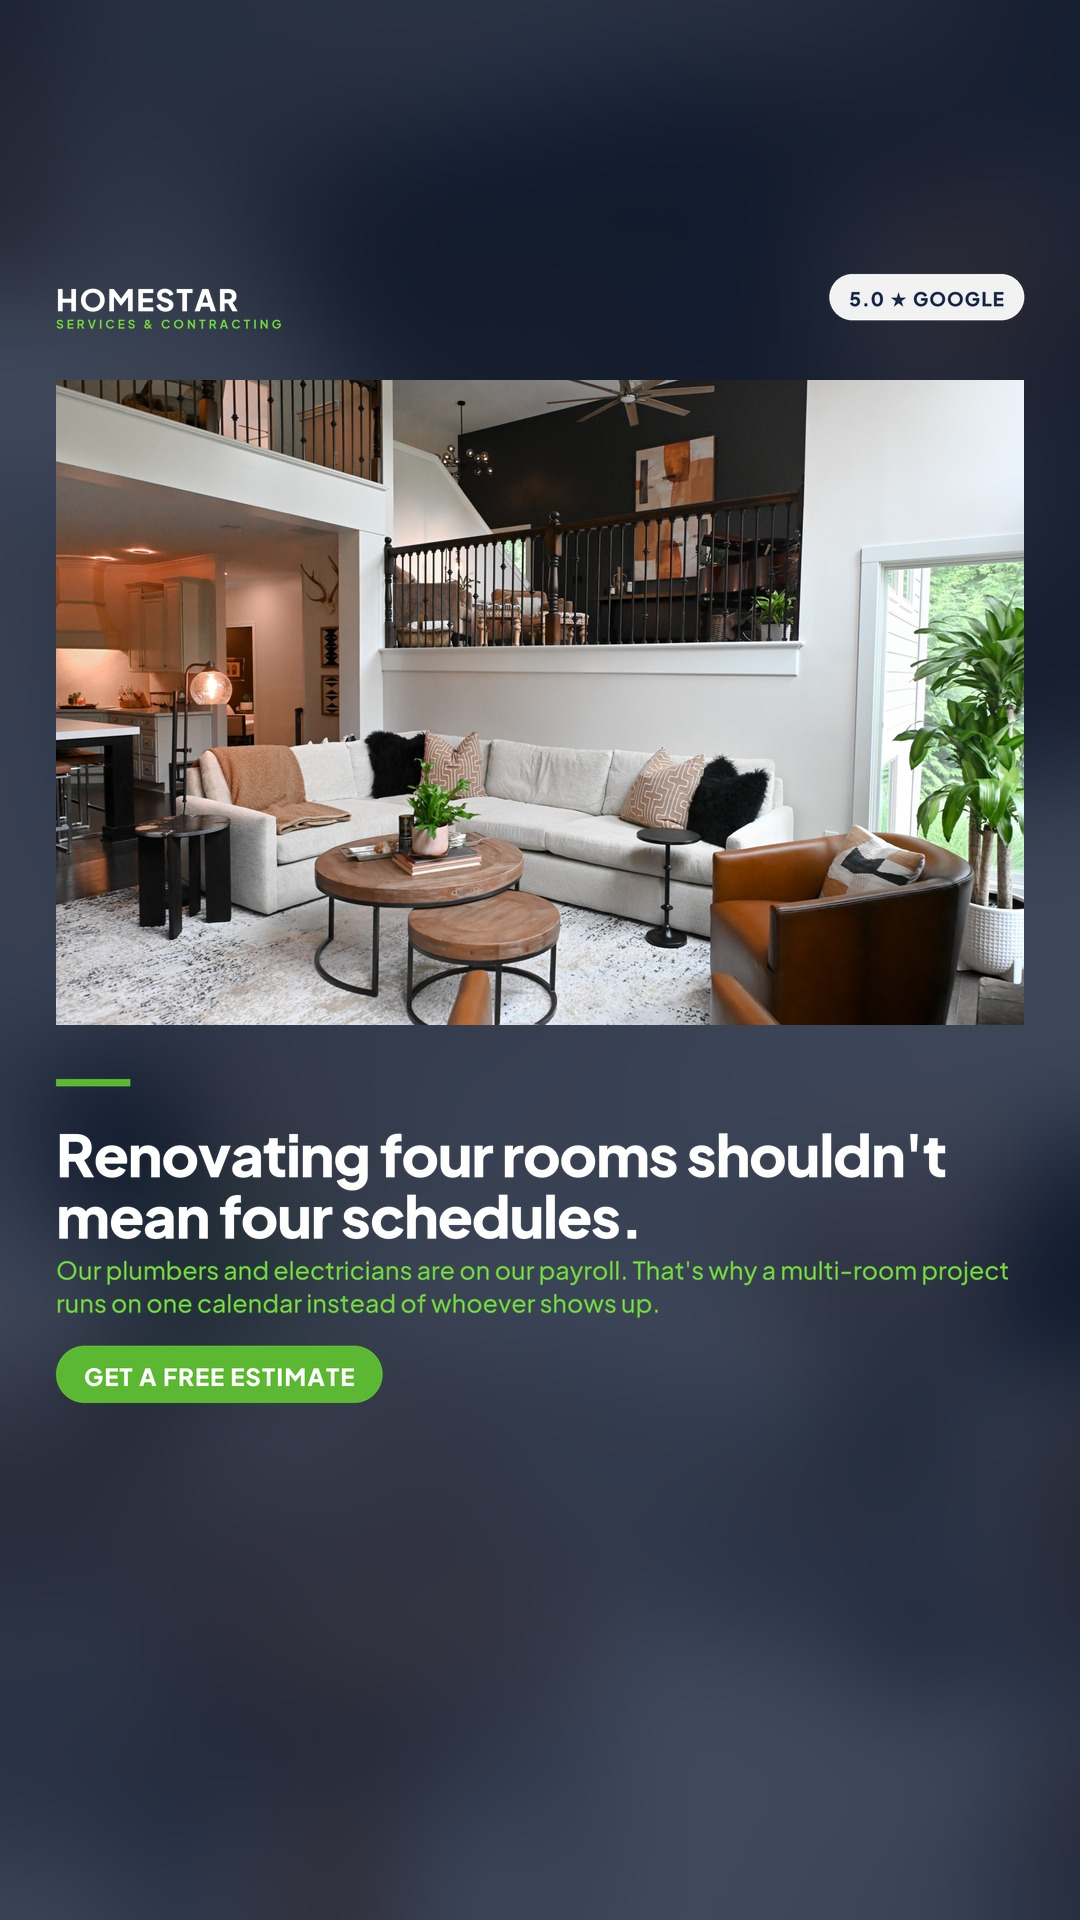
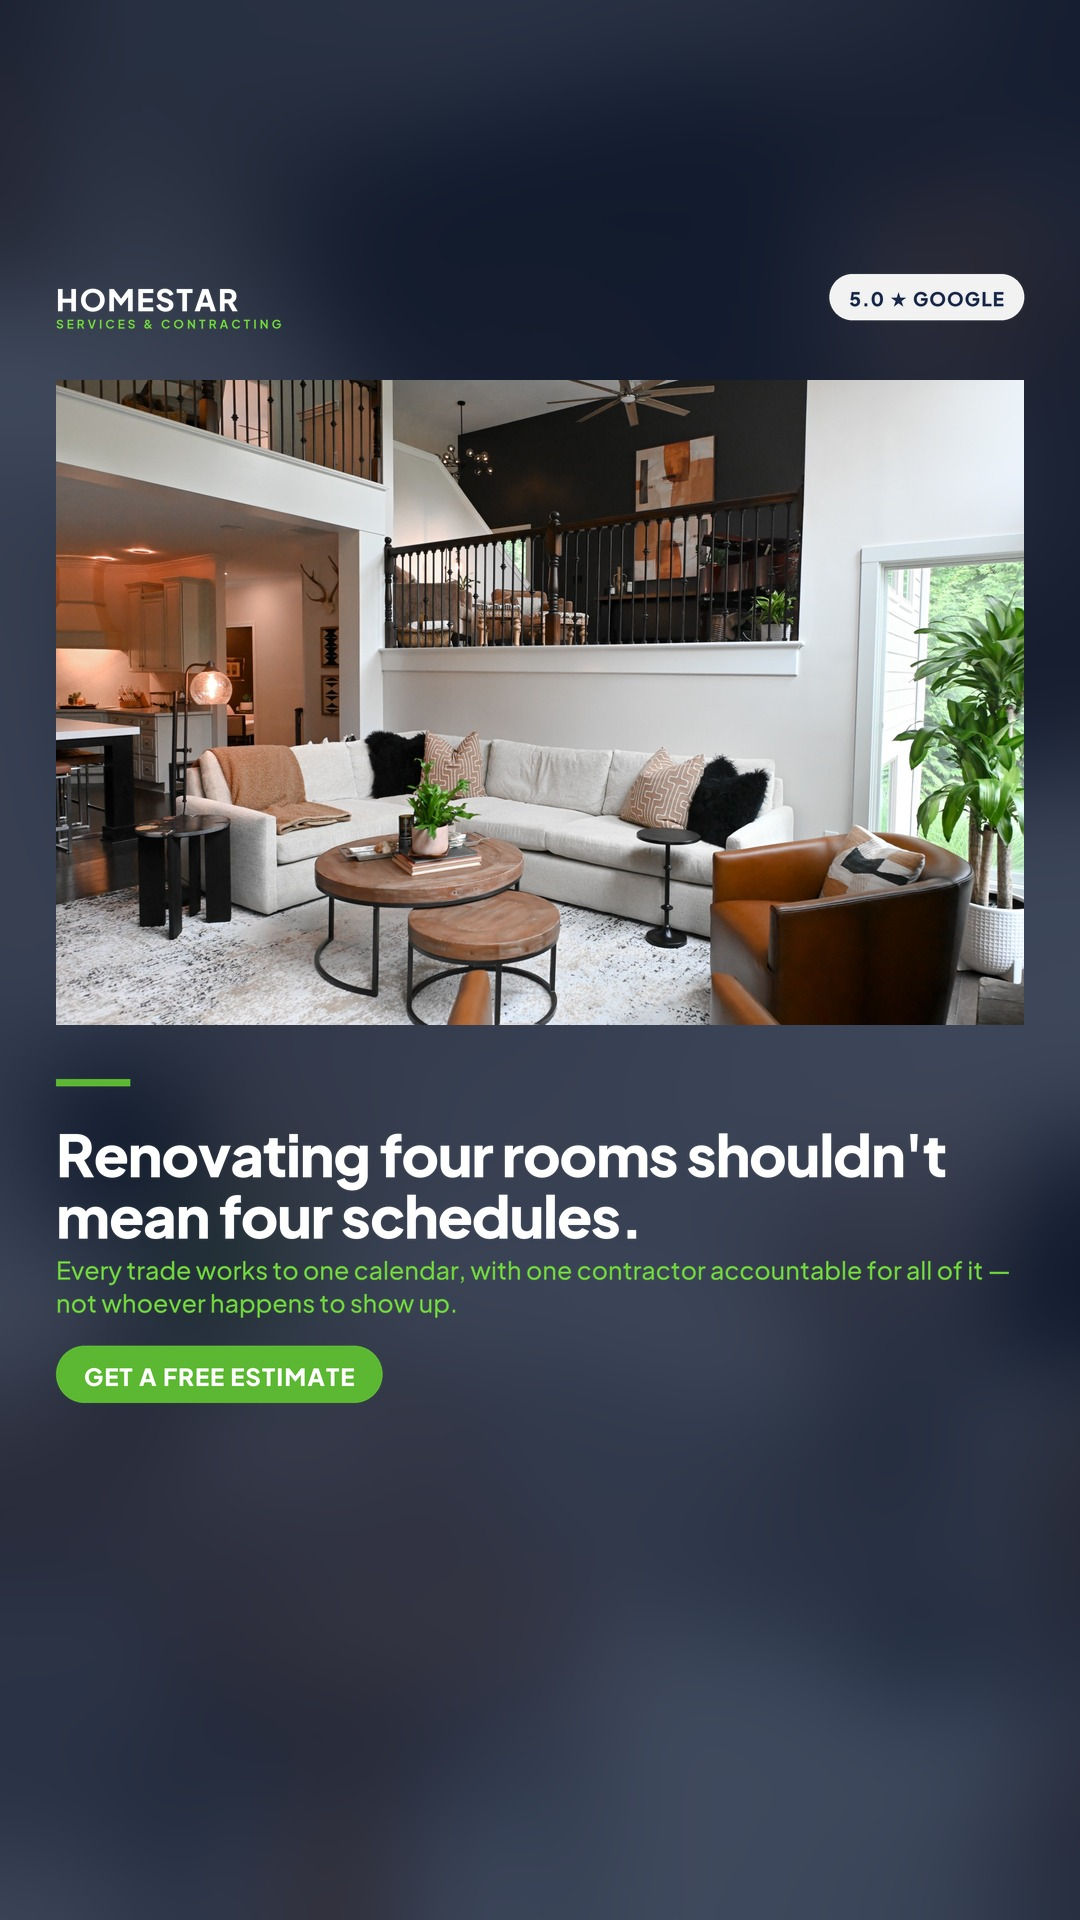
Write the two feed captions, and finish the in-house sweep properly
Feed posts had no copy at all - only a one-line description in the schedule -
so 13 and 20 Sep are now written in FEED-CAPTIONS.md with the reasoning.

13 Sep: the carousel sequence puts three DIFFERENT bathrooms in the first three
swipes. The hook is that there are three of them, and most people never swipe
past the third card; four shots of the primary followed by the children's baths
would have read as one room photographed repeatedly. Also corrects a stale note
in the schedule claiming this post follows F8 - F8 runs five days after it.

20 Sep: quotes Hannah Bachmann verbatim, read off the live Google feed on the
site. Chosen because it is specific - it corroborates the client portal, which
is a real differentiator the site already advertises - rather than generic
praise about quality. Notes why the rating line must stay "5.0", since a
displayed 5.0 can be a rounded 4.95 and nobody has audited 85 reviews one by one.

The sweep also missed three places. review_data.py still carried the payroll
claim in concepts 01, 01b and 06, and still described 02 as the in-house-trades
ad. More seriously, build_ads.py had it in ad 01b's IMAGE text, so fixing that
ad's caption would have left the claim rendered on screen. Creative re-rendered;
reels still clears the 1500px safe zone with 97px slack.

Ad 06's "licensed crew of their own" headline is deliberately untouched - Eric
restored that wording on purpose.

Changed region(s): [[0.0611, 0.6562, 0.9472, 0.6875]]

diff --git a/marketing/meta-ads/review_data.py b/marketing/meta-ads/review_data.py
@@ -12,14 +12,14 @@ Concept fields:
 CONCEPTS = [
     ("01", "One contractor. One schedule. One warranty.", "Geist upper level", True,
      "One contractor. One schedule. One warranty.",
-     "Renovating more than one room? Most contractors hand off the trades and hope the schedules line up. Because our plumbers and electricians are in-house, your kitchen, bathrooms, basement and flooring run as one project — one schedule, one point of contact, one warranty. Hamilton County, IN.",
+     "Renovating more than one room? Most contractors hand off the trades and hope the schedules line up. We run it differently: every trade works to one calendar, and one contractor is answerable for all of it — plumbing by licensed plumbers, electrical by licensed electricians. Your kitchen, bathrooms, basement and flooring run as one project, with one point of contact and one warranty. Hamilton County, IN.",
      "One Contractor. One Warranty.", "Whole-home renovation",
-     "The focal concept. Highest ticket in the set, and the in-house-trades fact is what makes the promise credible instead of a slogan.",
+     "The focal concept. Highest ticket in the set, and one accountable contractor across every trade is what makes the promise credible instead of a slogan.",
      "01-whole-home"),
 
     ("01b", "Four rooms shouldn't mean four schedules", "Zionsville great room", True,
      "Renovating four rooms shouldn't mean four schedules.",
-     "A four-room renovation usually means four trades, four schedules and nobody who owns the whole thing. We run it differently: our licensed plumbers and electricians are on our payroll, so your project moves on one calendar with one person accountable for it. Kitchens, baths, basements and flooring across Hamilton County.",
+     "A four-room renovation usually means four trades, four schedules and nobody who owns the whole thing. We run it differently: every trade works to one calendar, and one person is accountable for the lot. Plumbing by licensed plumbers, electrical by licensed electricians. Kitchens, baths, basements and flooring across Hamilton County.",
      "Four Rooms, One Schedule", "Multi-room renovation",
      "The only still in the library that shows kitchen, great room and upper landing in a single frame — it proves multi-room scope without needing a caption.",
      "01b-whole-home-schedules"),
@@ -31,12 +31,12 @@ CONCEPTS = [
      "Names the rooms explicitly, for homeowners who do not know “whole-home” is something you can buy.",
      "01c-whole-home-kitchen"),
 
-    ("02", "In-house trades", "Zionsville lower level", False,
-     "Your plumber doesn't work for your contractor. Ours does.",
-     "Most remodelers subcontract your plumber and your electrician, then hope the two schedules line up. We don't. HomeStar employs its own licensed plumbers and licensed electricians, so your project runs on one schedule, with one point of contact, and one warranty behind all of it. Family-owned in Fishers. Free in-home estimates across Hamilton County.",
-     "Our Licensed Trades Are In-House", "Free estimate · Hamilton County",
-     "The sharpest wedge you have. Almost no remodeler in Hamilton County can say it, and it turns “who do I trust” into a factual claim a competitor cannot copy.",
-     "02-in-house-trades"),
+    ("02", "Major projects, master craftsmanship", "Zionsville lower level", False,
+     "Major Projects. Master Craftsmanship.",
+     "The bigger the project, the more there is to get right - and those are the ones we are proudest of. A 14-foot red oak mantle cut to fit one wall. A marble mosaic laid so the pattern centres on the drain. Hand-glazed picket tile where no two pieces match, set one levelling clip at a time. Waterproofing you can still read the label on, behind tile nobody will ever see again. Whole floors, gut renovations, three bathrooms running on one schedule. If you are planning something substantial, we would love to walk it with you. Fishers, Indiana. Free in-home estimates across Hamilton County.",
+     "Major Projects. Master Craftsmanship.", "Whole-home · Multi-room · Hamilton County",
+     "Replaced the in-house-trades concept on 2026-09-06. The staffing argument asked a homeowner to care about an org chart; this one shows them four things a competitor has not built. Evidence rather than assertion, and every item traces to a real job in the portfolio.",
+     "02-major-projects"),
 
     ("03", "Basement square footage", "Zionsville media lounge", False,
      "You already own the square footage.",
@@ -61,7 +61,7 @@ CONCEPTS = [
 
     ("06", "Who we are", "Eric &amp; Robb", False,
      "HomeStar is two friends from Fishers with a licensed crew of their own.",
-     "HomeStar Services &amp; Contracting is a family-owned remodeling company in Fishers, Indiana. Eric Farr and Robb Rice founded it after 20 years of friendship, and they still walk every estimate personally. We do kitchens, bathrooms, basements and whole-home renovations across Hamilton County — and unlike most remodelers, our plumbers and electricians are on our payroll rather than subcontracted. 5.0 on Google.",
+     "HomeStar Services &amp; Contracting is a family-owned remodeling company in Fishers, Indiana. Eric Farr and Robb Rice founded it after 20 years of friendship, and they still walk every estimate personally. Bathrooms — walk-in showers, wet rooms, heated floors, custom vanities. Kitchens — layout changes, cabinetry, stone counters, full gut renovations. Basements — bars, wine rooms, media rooms, guest suites, home gyms. Whole homes — multi-room projects run on one schedule. Fishers, Carmel, Zionsville, Noblesville, Westfield and Geist. 5.0 on Google from 85 reviews.",
      "A Fishers Remodeler, Owner-Run", "Family-owned · Hamilton County",
      "Rewritten. The first version opened “Two friends of 20 years” — which only lands if you already know the brand. This one names the company, the place and the difference before asking for trust.",
      "06-who-we-are"),

diff --git a/marketing/meta-ads/build_ads.py b/marketing/meta-ads/build_ads.py
@@ -425,7 +425,12 @@ ADS = [
         "fy": 0.50,
         "headline": "Renovating four rooms shouldn't mean four schedules.",
         "h_px": 58,
-        "sub": "Our plumbers and electricians are on our payroll. That's why a multi-room project runs on one calendar instead of whoever shows up.",
+        # Was "Our plumbers and electricians are on our payroll." Retired
+        # 2026-09-06 with the rest of the exclusivity language: it promised
+        # something that removes the freedom to bring in a specialist sub when
+        # a specialist is what the work deserves. The accountability point is
+        # the part that was actually doing the persuading, and it survives.
+        "sub": "Every trade works to one calendar, with one contractor accountable for all of it — not whoever happens to show up.",
         "cta": "GET A FREE ESTIMATE",
         "badge_l": "HAMILTON COUNTY, IN",
         "badge_r": "5.0 ★ GOOGLE",

diff --git a/marketing/meta-ads/FEED-CAPTIONS.md b/marketing/meta-ads/FEED-CAPTIONS.md
@@ -1,0 +1,73 @@
+# Feed post captions — Sundays, 11:00 AM
+
+Feed posts are not scheduled through the API yet; these are written for review and
+manual posting. Reel captions live in `CAPTIONS-F7-FI.md` and the per-reel files.
+
+---
+
+## 13 Sep — Carousel: Geist three-bath, 6 photos
+
+**Photos, in this order** (from `public/images/`):
+
+| # | file | why it sits here |
+|---|---|---|
+| 1 | `geist-three-bath-1.jpg` | Primary bath, widest shot — navy picket tile, tub and shower in one frame. The strongest single image in the set |
+| 2 | `geist-three-bath-9.jpg` | First children's bath — white vanity, backlit mirror |
+| 3 | `geist-three-bath-10.jpg` | Second children's bath — navy vanity, brass, clearly a different room |
+| 4 | `geist-three-bath-2.jpg` | Back to the primary, tighter on the tile behind the tub |
+| 5 | `geist-three-bath-3.jpg` | The oak double vanity straight on, showing the scale of it |
+| 6 | `geist-three-bath-7.jpg` | Primary with the window — ends on light rather than on tile |
+
+**Why this order.** The hook is *three* bathrooms, so three different rooms appear in
+the first three swipes and prove it before anyone loses interest. Most people never
+swipe past the third card. The last three reward whoever does, with the craft. The
+obvious sequence — four primary shots then the children's baths — would read as one
+room photographed repeatedly and waste the whole point.
+
+**Caption:**
+
+> Three bathrooms in one Geist home, built as one project.
+>
+> A primary bath with hand-glazed navy picket tile running floor to ceiling behind a freestanding tub — then two more for the children, each its own room rather than a copy of the other.
+>
+> Doing them together isn't only about living through less disruption. The trades, the tile orders and the inspections happen once instead of three times, and one contractor is answerable for all of it.
+>
+> Schluter waterproofing behind every tiled surface: the 25-year manufacturer warranty covers the waterproofing, and our own 1-year workmanship warranty covers the job.
+>
+> Geist, Fishers, Indiana. Free in-home estimates: (317) 279-4798
+
+---
+
+## 20 Sep — The 5.0 from 85 reviews
+
+**Image:** `renders/cards/review-5-0-feed.jpg` (1080x1350)
+
+**Caption:**
+
+> 85 reviews on Google, and still a 5.0.
+>
+> Hannah's, after a primary bathroom remodel:
+>
+> "Robb and Eric at HomeStar made our master bathroom remodel easy from start to finish. We loved having access to a customized client portal to track progress and updates — no guessing, no chasing down texts. The finished space looks incredible, but it was the clear communication throughout that really set them apart."
+>
+> The portal is on every HomeStar project: live phase status, selections tracked against allowances, and change orders signed before any scope change goes ahead.
+>
+> Fishers, Carmel, Zionsville, Noblesville, Westfield and Geist. Free in-home estimates: (317) 279-4798
+
+**Why this review and not another.** Pulled from the live Google feed on the site on
+2026-09-06, quoted verbatim. It was chosen because it is *specific* — the client
+portal is a real differentiator the site already advertises, and a review corroborating
+it is worth more than praise about quality, which every contractor's reviews contain.
+It also names Eric and Robb, which reinforces the owner-run positioning, and lands on
+communication, the thing homeowners most expect a contractor to get wrong.
+
+Runners-up, both usable later: **Sheila Pierson** on the Westfield basement ("what was
+once an unfinished storage space") — held back because Westfield already carries the
+FB reel and the 27 Sep carousel, so a third use inside a month would narrow the work.
+And **"k p"**, whose two bathrooms turned into built-ins, a mudroom and tile floors —
+the best whole-home argument in the set, worth its own post rather than a caption slot.
+
+**Careful with the rating claim.** The card and caption say 5.0 and 85 reviews, which
+is what Google displays and what the site's structured data publishes. Do not upgrade
+that to "not one below five stars" — a 5.0 can be a rounded 4.95, and the reviews were
+not audited one by one.

diff --git a/marketing/meta-ads/AD-COPY-FIXES.md b/marketing/meta-ads/AD-COPY-FIXES.md
@@ -54,9 +54,21 @@ Headline stays: One Contractor. One Warranty.
 
 ## 01b Four rooms, one schedule
 
+**This one needs the IMAGE swapped too, not just the text.** The claim was baked into
+the creative itself, so replacing the caption alone leaves it on screen. Re-rendered
+2026-09-06 — upload these in place of the current ones:
+
+- `renders/01b-whole-home-schedules--feed.jpg` (1080x1350)
+- `renders/01b-whole-home-schedules--square.jpg` (1080x1080)
+- `renders/01b-whole-home-schedules--reels.jpg` (1080x1920)
+
+The image sub-line now reads *"Every trade works to one calendar, with one contractor
+accountable for all of it — not whoever happens to show up."* Headline and photo are
+unchanged, and the reels version still clears Meta's 1500px safe zone with 97px slack.
+
 Currently: "...our licensed plumbers and electricians are on our payroll..."
 
-Replace with:
+Replace the primary text with:
 
 A four-room renovation usually means four trades, four schedules and nobody who owns the whole thing. We run it differently: every trade works to one calendar, and one person is accountable for the lot. Plumbing by licensed plumbers, electrical by licensed electricians. Kitchens, baths, basements and flooring across Hamilton County.
 
